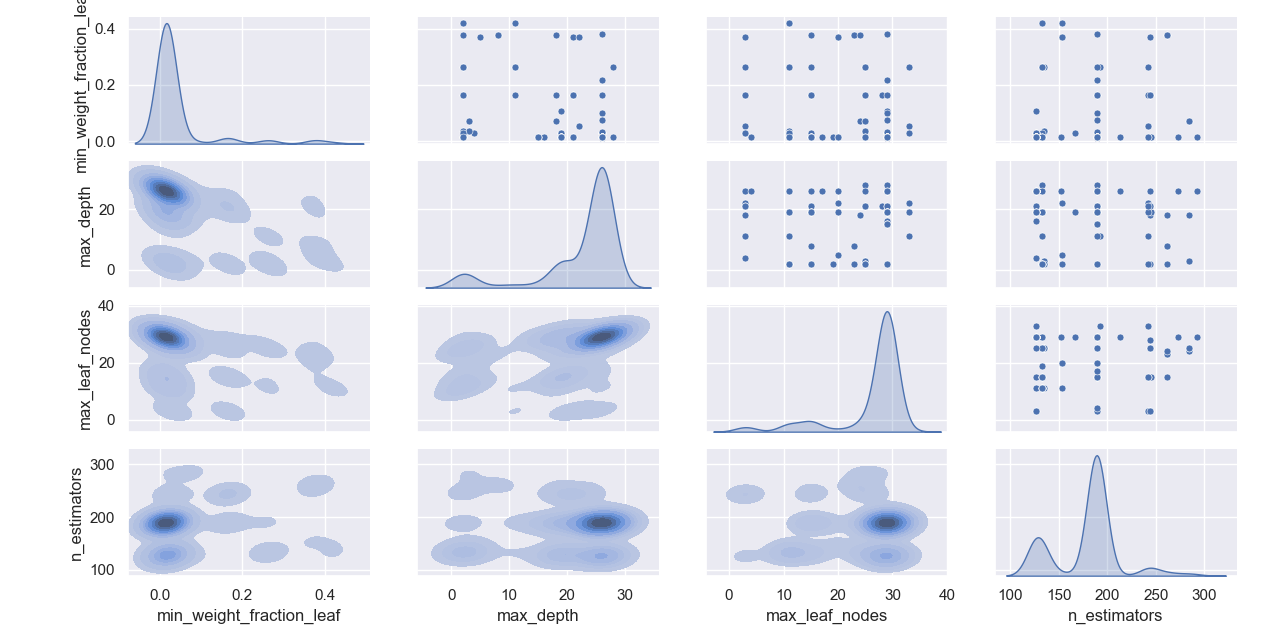
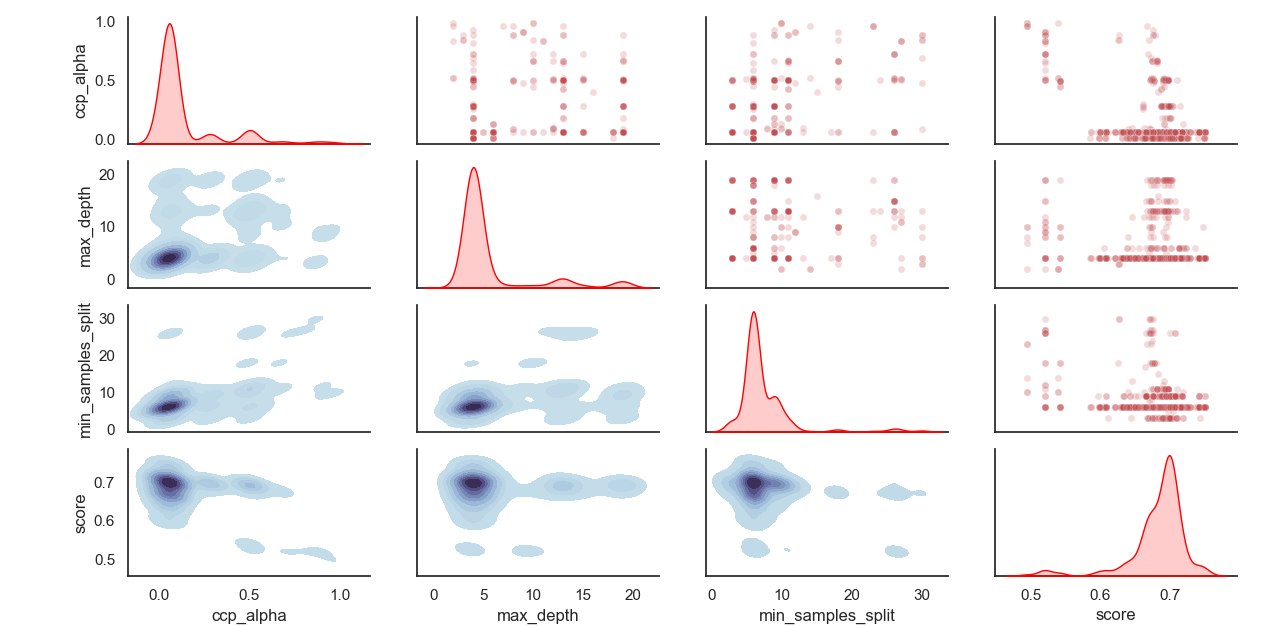
plots colors style

diff --git a/sklearn_genetic/plots.py b/sklearn_genetic/plots.py
@@ -2,7 +2,6 @@ import seaborn as sns
 
 from .utils import logbook_to_pandas
 
-sns.set_style("whitegrid")
 
 """
 This module contains some useful function to explore the results of the optimization routines
@@ -21,6 +20,8 @@ def plot_fitness_evolution(estimator):
     Lines plot with the fitness value in each generation
 
     """
+    sns.set_style("white")
+
     fitness_history = estimator.history["fitness"]
 
     palette = sns.color_palette("rocket")
@@ -53,6 +54,8 @@ def plot_search_space(estimator, height=2, s=25, features: list = None):
     Pair plot of the used hyperparameters during the search
 
     """
+    sns.set_style("white")
+
     df = logbook_to_pandas(estimator.logbook)
     if features:
         stats = df[features]
@@ -61,7 +64,7 @@ def plot_search_space(estimator, height=2, s=25, features: list = None):
         stats = df[variables]
 
     g = sns.PairGrid(stats, diag_sharey=False, height=height)
-    g = g.map_upper(sns.scatterplot, s=s)
-    g = g.map_lower(sns.kdeplot, shade=True)
-    g = g.map_diag(sns.kdeplot, shade=True)
+    g = g.map_upper(sns.scatterplot, s=s, color='r', alpha=.2)
+    g = g.map_lower(sns.kdeplot, shade=True, cmap=sns.color_palette("ch:s=.25,rot=-.25", as_cmap=True))
+    g = g.map_diag(sns.kdeplot, shade=True, palette="crest", alpha=.2, color='red')
     return g

diff --git a/demo/Boson_Houses_decision_tree.py b/demo/Boson_Houses_decision_tree.py
@@ -30,7 +30,7 @@ evolved_estimator = GASearchCV(
     clf,
     cv=3,
     scoring="r2",
-    population_size=12,
+    population_size=20,
     generations=30,
     tournament_size=3,
     elitism=True,

diff --git a/README.rst b/README.rst
@@ -29,6 +29,15 @@ optimizes (max or min) the cross validation scores, it can be used for both regr
 
 Documentation is available `here <https://sklearn-genetic-opt.readthedocs.io/>`_
 
+Optimization progress in a regression problem:
+
+.. image:: https://github.com/rodrigo-arenas/Sklearn-genetic-opt/blob/master/demo/images/fitness.png?raw=True
+
+Sampled distribution oh hyperparameters
+
+.. image:: https://github.com/rodrigo-arenas/Sklearn-genetic-opt/blob/master/demo/images/density.png?raw=True
+
+
 Main Features:
 ########
 
@@ -52,7 +61,6 @@ Example
 .. code-block:: python
 
    from sklearn_genetic import GASearchCV
-   from sklearn_genetic.plots import plot_fitness_evolution, plot_search_space
    from sklearn_genetic.space import Continuous, Categorical, Integer
    from sklearn.ensemble import RandomForestClassifier
    from sklearn.model_selection import train_test_split, StratifiedKFold
@@ -94,14 +102,6 @@ Example
    y_predict_ga = evolved_estimator.predict(X_test)
    print(accuracy_score(y_test, y_predict_ga))
 
-   # Check the distribution of sampled hyperparameters
-   plot_search_space(evolved_estimator, features=['min_weight_fraction_leaf', 'max_depth', 'max_leaf_nodes', 'n_estimators'])
-   plt.show()
-
-   # See the evolution of the optimization per generation
-   plot_fitness_evolution(evolved_estimator)
-   plt.show()
-
    # Saved metadata for further analysis
    print("Stats achieved in each generation: ", evolved_estimator.history)
    print("Best k solutions: ", evolved_estimator.hof)
@@ -109,14 +109,6 @@ Example
 ^^^^^^^^^
 Results
 ^^^^^^^^^
-
-Sampled distribution
-
-.. image:: https://github.com/rodrigo-arenas/Sklearn-genetic-opt/blob/master/demo/images/density.png?raw=True
-
-Fitness evolution over generations
-
-.. image:: https://github.com/rodrigo-arenas/Sklearn-genetic-opt/blob/master/demo/images/fitness.png?raw=True
 
 Log controlled by verbosity
 
